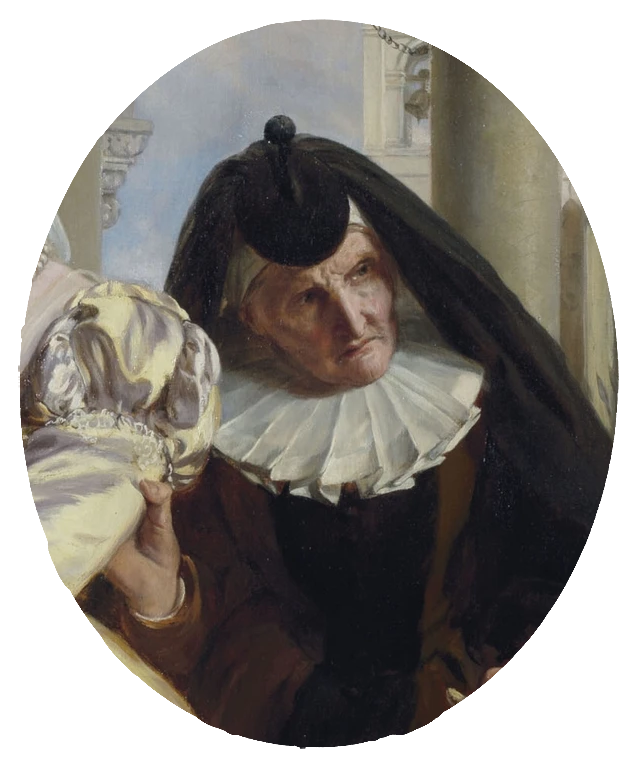
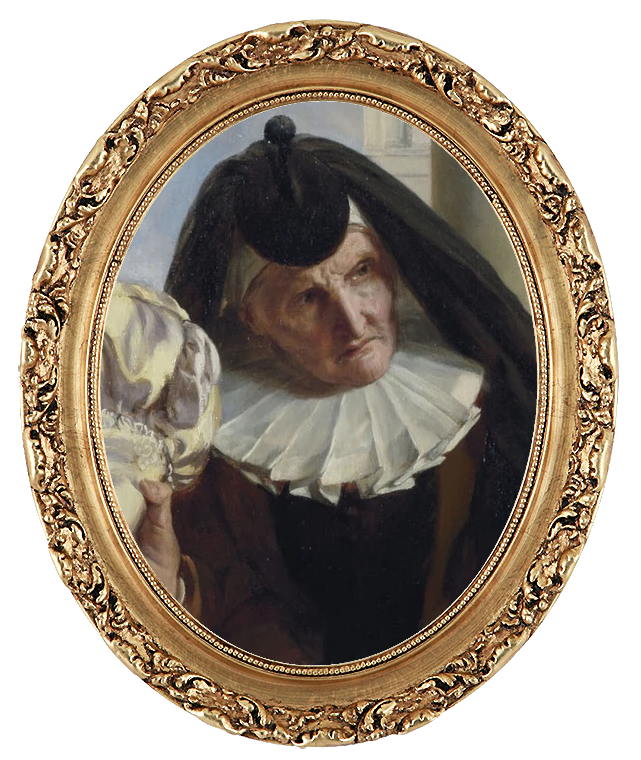
image fix

Changed region(s): [[0.0312, 0.0, 0.9672, 0.9987]]

diff --git a/src/assets/js/sidecharacters.js b/src/assets/js/sidecharacters.js
@@ -1,8 +1,5 @@
 //LAURENCE
 
-const FRAME3 = new Image();
-FRAME3.src = "./assets/images/frame.png";
-
 const LAURENCE = new Image();
 LAURENCE.src = "./assets/images/laurence.png";
 
@@ -12,18 +9,14 @@ const lrCtx = laurence.getContext("2d");
 loadLaurence();
 
 function loadLaurence() {
-  FRAME3.onload = () => {
-    laurence.width = FRAME3.width / 3;
-    laurence.height = FRAME3.height / 2;
-    lrCtx.drawImage(LAURENCE, 0, 75, FRAME3.width / 3, FRAME3.height / 3);
-    lrCtx.drawImage(FRAME3, 0, 75, FRAME3.width / 3, FRAME3.height / 3);
+  LAURENCE.onload = () => {
+    laurence.width = LAURENCE.width / 3;
+    laurence.height = LAURENCE.height / 2;
+    lrCtx.drawImage(LAURENCE, 0, 75, LAURENCE.width / 3, LAURENCE.height / 3);
   };
 }
 
 // MERCUTIO
-
-const FRAME6 = new Image();
-FRAME6.src = "./assets/images/frame.png";
 
 const MERCUTIO = new Image();
 MERCUTIO.src = "./assets/images/mercutio.png";
@@ -34,18 +27,14 @@ const mrCtx = mercutio.getContext("2d");
 loadMercutio();
 
 function loadMercutio() {
-  FRAME6.onload = () => {
-    mercutio.width = FRAME6.width / 3;
-    mercutio.height = FRAME6.height / 2;
-    mrCtx.drawImage(MERCUTIO, 0, 75, FRAME6.width / 3, FRAME6.height / 3);
-    mrCtx.drawImage(FRAME6, 0, 75, FRAME6.width / 3, FRAME6.height / 3);
+  MERCUTIO.onload = () => {
+    mercutio.width = MERCUTIO.width / 3;
+    mercutio.height = MERCUTIO.height / 2;
+    mrCtx.drawImage(MERCUTIO, 0, 75, MERCUTIO.width / 3, MERCUTIO.height / 3);
   };
 }
 
 // NURSE
-
-const FRAME4 = new Image();
-FRAME4.src = "./assets/images/frame.png";
 
 const NURSE = new Image();
 NURSE.src = "./assets/images/nurse.png";
@@ -56,18 +45,14 @@ const nuCtx = nurse.getContext("2d");
 loadNurse();
 
 function loadNurse() {
-  FRAME4.onload = () => {
-    nurse.width = FRAME4.width / 3;
-    nurse.height = FRAME4.height / 2;
-    nuCtx.drawImage(NURSE, 0, 75, FRAME4.width / 3, FRAME4.height / 3);
-    nuCtx.drawImage(FRAME4, 0, 75, FRAME4.width / 3, FRAME4.height / 3);
+  NURSE.onload = () => {
+    nurse.width = NURSE.width / 3;
+    nurse.height = NURSE.height / 2;
+    nuCtx.drawImage(NURSE, 0, 75, NURSE.width / 3, NURSE.height / 3);
   };
 }
 
 // TYBALT
-
-const FRAME5 = new Image();
-FRAME5.src = "./assets/images/frame.png";
 
 const TYBALT = new Image();
 TYBALT.src = "./assets/images/tybalt.png";
@@ -78,10 +63,9 @@ const tbCtx = tybalt.getContext("2d");
 loadTybalt();
 
 function loadTybalt() {
-  FRAME5.onload = () => {
-    tybalt.width = FRAME5.width / 3;
-    tybalt.height = FRAME5.height / 2;
-    tbCtx.drawImage(TYBALT, 0, 75, FRAME5.width / 3, FRAME5.height / 3);
-    tbCtx.drawImage(FRAME5, 0, 75, FRAME5.width / 3, FRAME5.height / 3);
+  TYBALT.onload = () => {
+    tybalt.width = TYBALT.width / 3;
+    tybalt.height = TYBALT.height / 2;
+    tbCtx.drawImage(TYBALT, 0, 75, TYBALT.width / 3, TYBALT.height / 3);
   };
 }
